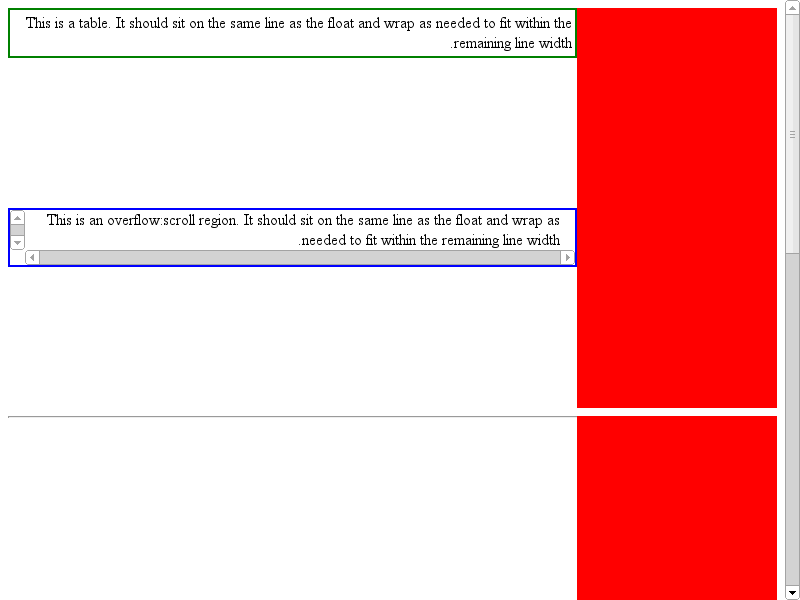
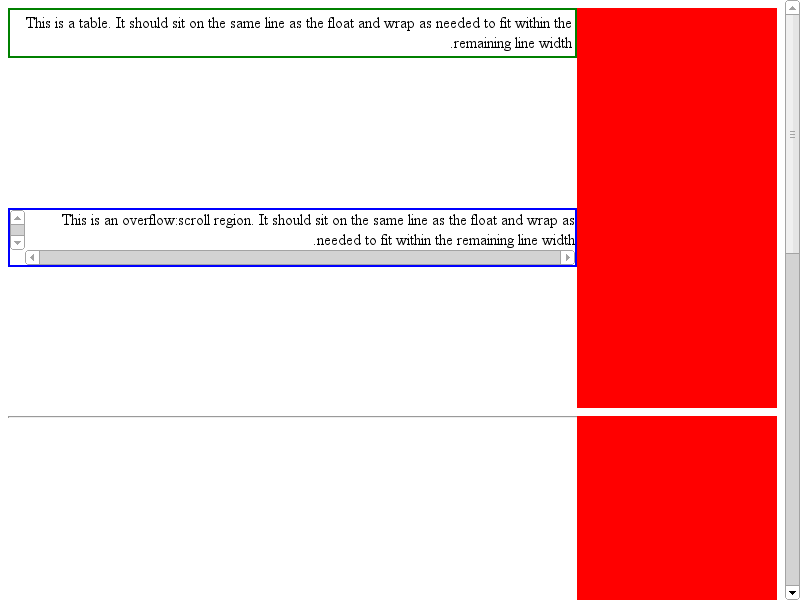
Correction to layoutOverflowRect calculation in case of direction:rtl
BUG=179332
Webkit bug https://bugs.webkit.org/show_bug.cgi?id=85856

Review URL: https://codereview.chromium.org/25373006

git-svn-id: svn://svn.chromium.org/blink/trunk@161333 bbb929c8-8fbe-4397-9dbb-9b2b20218538

Changed region(s): [[0.0625, 0.36, 0.7188, 0.42]]

diff --git a/LayoutTests/scrollbars/rtl/div-horizontal-with-vertical-scrollbar.html b/LayoutTests/scrollbars/rtl/div-horizontal-with-vertical-scrollbar.html
@@ -1,0 +1,39 @@
+<!DOCTYPE html>
+<html>
+<head>
+<script src="../../resources/js-test.js"></script>
+</head>
+<body dir="ltr">
+<div dir="ltr" id="outer-ltr" style="width: 200px; height: 200px; overflow: auto;">
+<div id="inner-ltr" style="text-align: left; width: 195px; height: 300px;">ABC</div>
+</div>
+<div dir="rtl" id="outer-rtl" style="width: 200px; height: 200px; overflow: auto;">
+<div id="inner-rtl" style="text-align: left; width: 195px; height: 300px;">ABC</div>
+</div>
+<script type="text/javascript">
+description('Test that horizontal scrollbar should appear as the content width encroaches upon the vertical scrollbar and also test if WebKit can show the left side of the inner elements regardless of the position of its scrollbars. To test manually, open this document and verify we can see "ABC" both in the LTR element and in the RTL element.');
+
+var outerLTR = document.getElementById('outer-ltr');
+var innerLTR = document.getElementById('inner-ltr');
+var outerRTL = document.getElementById('outer-rtl');
+var innerRTL = document.getElementById('inner-rtl');
+outerLTR.scrollLeft = 0;
+outerRTL.scrollLeft = 0;
+
+debug('Verify the widths of the outer RTL elements are the same as the widths of the outer LTR elements.');
+shouldBeTrue('outerLTR.offsetWidth == outerRTL.offsetWidth');
+shouldBeTrue('outerLTR.clientWidth == outerRTL.clientWidth');
+shouldBeTrue('outerLTR.scrollWidth == outerRTL.scrollWidth');
+
+debug('Verify the widths of the inner RTL elements are the same as the widths of the inner LTR elements.');
+shouldBeTrue('innerLTR.offsetWidth == innerRTL.offsetWidth');
+shouldBeTrue('innerLTR.clientWidth == innerRTL.clientWidth');
+shouldBeTrue('innerLTR.scrollWidth == innerRTL.scrollWidth');
+
+debug('Verify the width of the vertical scrollbar of the outer RTL element is the same as the one of the outer LTR element regardless of their scrollbar positions.');
+var scrollbarWidthLTR = outerLTR.offsetWidth - outerLTR.clientWidth;
+var scrollbarWidthRTL = outerRTL.offsetWidth - outerRTL.clientWidth;
+shouldBeTrue('scrollbarWidthLTR == scrollbarWidthRTL');
+</script>
+</body>
+</html>

diff --git a/Source/core/rendering/RenderBox.cpp b/Source/core/rendering/RenderBox.cpp
@@ -4777,7 +4777,7 @@ LayoutRect RenderBox::noOverflowRect() const
     // writing modes, x in vertical writing modes), which is always "logical top". Apart from the
     // flipping, this method does the same as clientBoxRect().
 
-    LayoutUnit left = borderLeft();
+    LayoutUnit left = borderLeft() + (style()->shouldPlaceBlockDirectionScrollbarOnLogicalLeft() ? verticalScrollbarWidth() : 0);
     LayoutUnit top = borderTop();
     LayoutUnit right = borderRight();
     LayoutUnit bottom = borderBottom();
@@ -4792,7 +4792,10 @@ LayoutRect RenderBox::noOverflowRect() const
     // FIXME: when the above mentioned bug is fixed, it should hopefully be possible to call
     // clientBoxRect() or paddingBoxRect() in this method, rather than fiddling with the edges on
     // our own.
-    rect.contract(verticalScrollbarWidth(), horizontalScrollbarHeight());
+    if (style()->shouldPlaceBlockDirectionScrollbarOnLogicalLeft())
+        rect.contract(0, horizontalScrollbarHeight());
+    else
+        rect.contract(verticalScrollbarWidth(), horizontalScrollbarHeight());
     return rect;
 }
 

diff --git a/Source/core/rendering/RenderBlock.cpp b/Source/core/rendering/RenderBlock.cpp
@@ -1546,12 +1546,8 @@ void RenderBlock::addOverflowFromPositionedObjects()
         positionedObject = *it;
 
         // Fixed positioned elements don't contribute to layout overflow, since they don't scroll with the content.
-        if (positionedObject->style()->position() != FixedPosition) {
-            LayoutUnit x = positionedObject->x();
-            if (style()->shouldPlaceBlockDirectionScrollbarOnLogicalLeft())
-                x -= verticalScrollbarWidth();
-            addOverflowFromChild(positionedObject, LayoutSize(x, positionedObject->y()));
-        }
+        if (positionedObject->style()->position() != FixedPosition)
+            addOverflowFromChild(positionedObject, LayoutSize(positionedObject->x(), positionedObject->y()));
     }
 }
 

diff --git a/Source/core/rendering/RenderLayerScrollableArea.cpp b/Source/core/rendering/RenderLayerScrollableArea.cpp
@@ -514,7 +514,7 @@ void RenderLayerScrollableArea::computeScrollDimensions()
     m_overflowRect = m_box->layoutOverflowRect();
     m_box->flipForWritingMode(m_overflowRect);
 
-    int scrollableLeftOverflow = m_overflowRect.x() - m_box->borderLeft();
+    int scrollableLeftOverflow = m_overflowRect.x() - m_box->borderLeft() - (m_box->style()->shouldPlaceBlockDirectionScrollbarOnLogicalLeft() ? m_box->verticalScrollbarWidth() : 0);
     int scrollableTopOverflow = m_overflowRect.y() - m_box->borderTop();
     setScrollOrigin(IntPoint(-scrollableLeftOverflow, -scrollableTopOverflow));
 }
